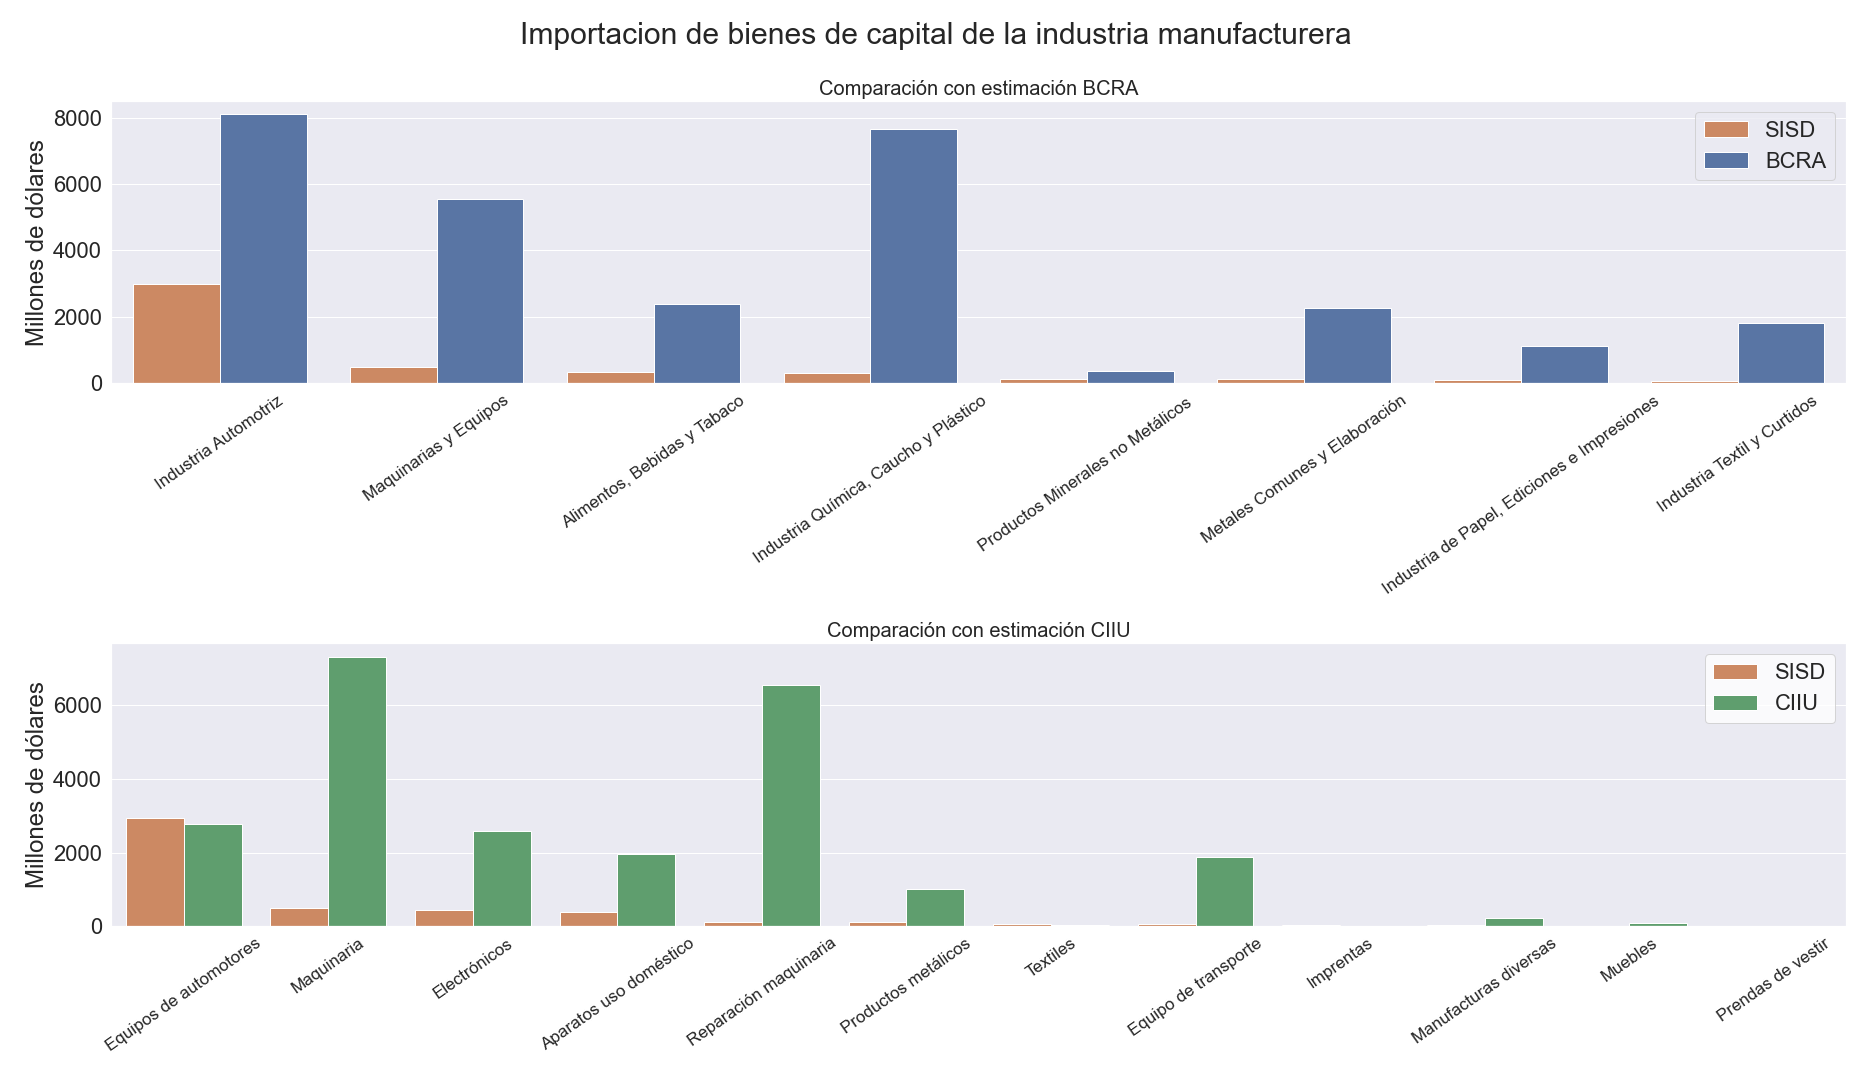
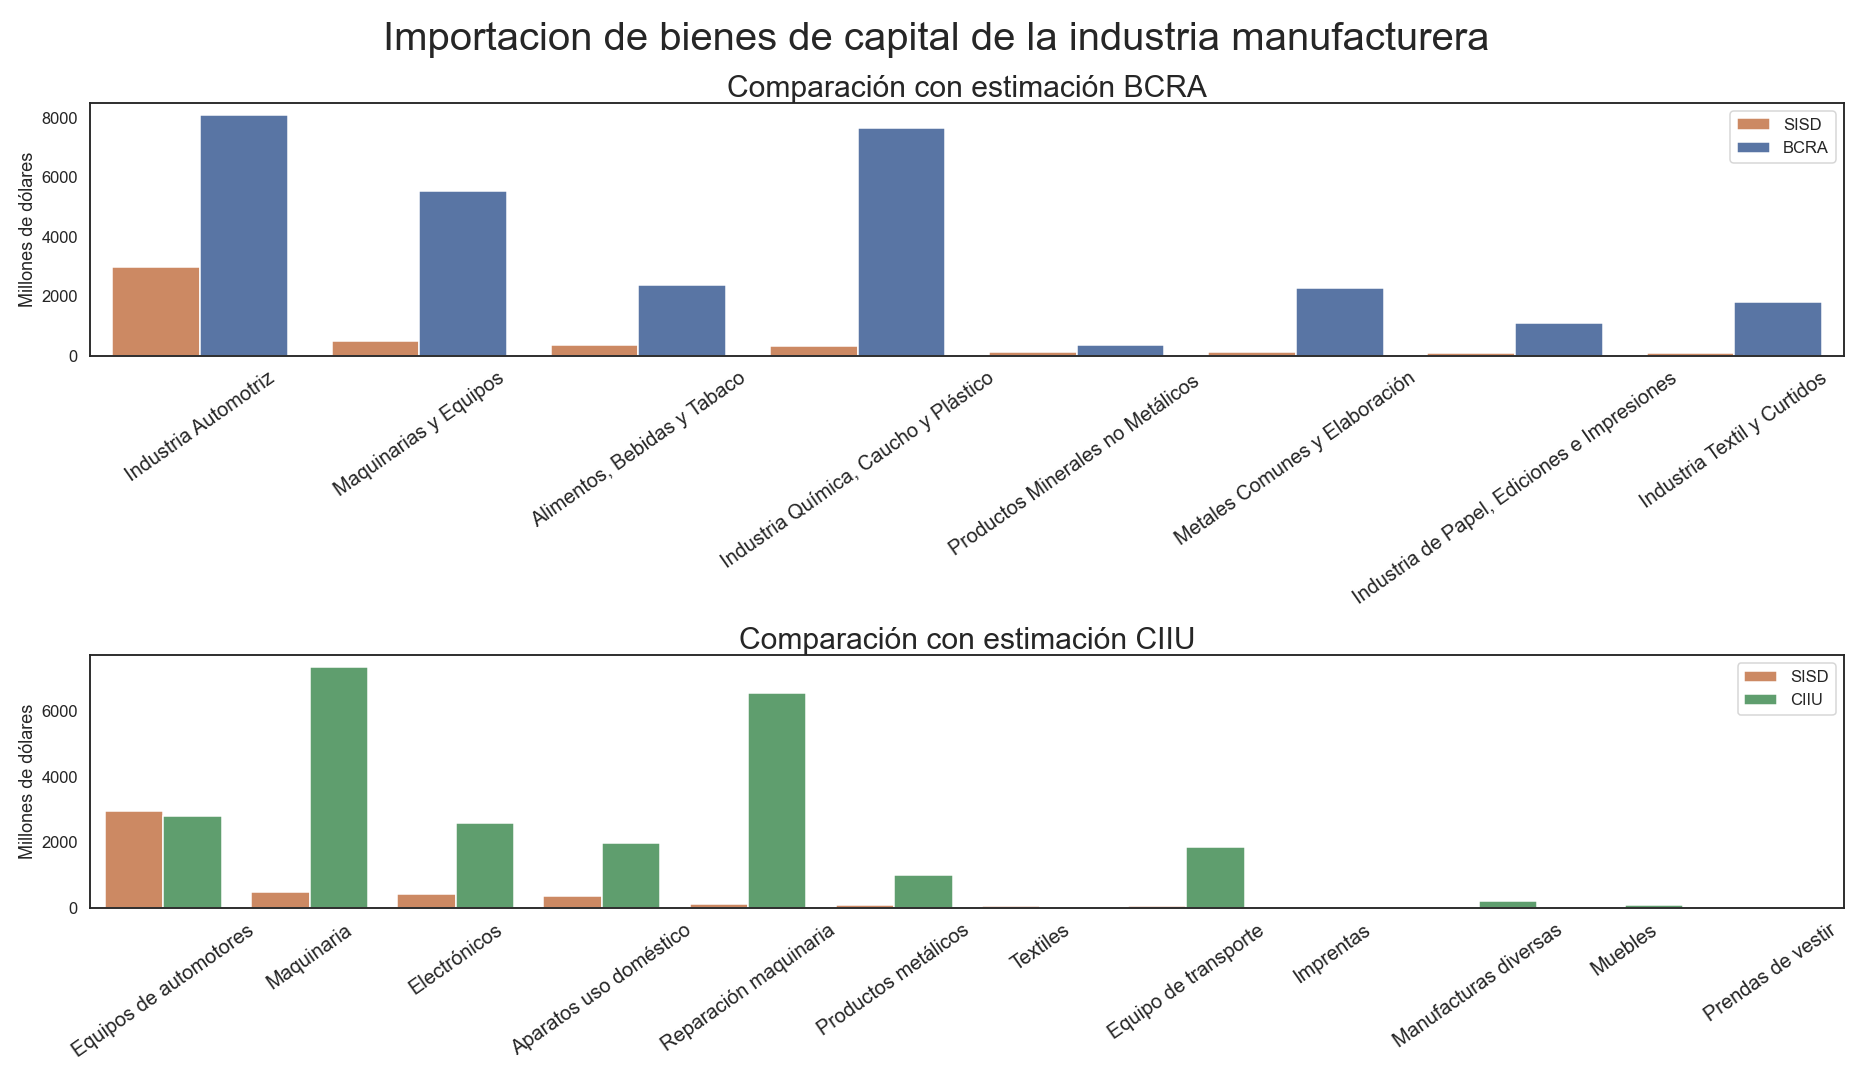
emprolijo graficos

diff --git a/scripts/letra/clasificador_SISD_letra.py b/scripts/letra/clasificador_SISD_letra.py
@@ -19,6 +19,7 @@ import pandas as pd
 import numpy as np
 import matplotlib.pyplot as plt
 import matplotlib.ticker as mtick
+import seaborn as sns
 
 import prince
 from prince import ca
@@ -58,8 +59,6 @@ cuit_personas = predo_cuit_clae(cuit_clae, "personas")
 cuit_empresas = predo_cuit_clae(cuit_clae, "empresas")
 bec_bk = predo_bec_bk(bec, bec_to_clae)
 
-impo_bcra_letra=predo_bce_cambiario(bce_cambiario)
-impo_ciiu_letra = impo_ciiu_letra(isic, dic_ciiu,join_impo_clae_bec_bk )
 
 #############################################
 #                joins                      #
@@ -86,6 +85,12 @@ join_impo_clae_bec_bk_comercio_pond = def_join_impo_clae_bec_bk_comercio_pond(jo
 
 # join_final = def_calc_pond(join_impo_clae_bec_bk_comercio_pond,tabla_contingencia)
 join_final = pd.read_csv("../data/resultados/impo_con_ponderaciones.csv")
+
+
+filtro = ["HS6", "CUIT_IMPOR", "valor", "letra1", "letra2", "letra3", 
+"vta_bk", "vta_sec", "vta_bk2", "vta_sec2", "vta_bk3", "vta_sec3", 
+"letra1_pond", "letra2_pond", "letra3_pond"]
+join_final = join_final.sort_values("HS6")[filtro]
 
 
 #############################################
@@ -115,12 +120,13 @@ comercio_y_propio = impo_comercio_y_propio(z, sectores_desc)
 #                       Visualizacion
 # =============================================================================
 #parametro para graficos
-params = {'legend.fontsize': 'x-large',
+params = {'legend.fontsize': 20,
           'figure.figsize': (20, 10),
-         'axes.labelsize': 'x-large',
+         'axes.labelsize': 15,
          'axes.titlesize': 30,
-         'xtick.labelsize':'x-large',
-         'ytick.labelsize':'x-large'}
+          'xtick.labelsize':20,
+          'ytick.labelsize':20
+         }
 plt.rcParams.update(params)
  
 
@@ -130,7 +136,7 @@ y_pos = np.arange(len(sectores_desc.values()))
 
 plt.bar(y_pos , impo_tot_sec.iloc[:,0]/(10**6) )
 plt.xticks(y_pos , impo_tot_sec.index, rotation = 75)
-plt.title("Importaciones de bienes de capital destinadas a cada sector", fontsize = 30)
+plt.title("Importaciones de bienes de capital destinadas a cada sector")#, fontsize = 30)
 plt.ylabel("Millones de USD")
 plt.xlabel("Sector \n \n Fuente: CEPXXI en base a Aduana, AFIP y UN Comtrade")
 # plt.subplots_adjust(bottom=0.7,top=0.83)
@@ -146,13 +152,19 @@ ax = comercio_y_propio.plot(kind = "bar", rot = 75,
 ax.yaxis.set_major_formatter(mtick.PercentFormatter())
 ax.legend(loc='best', bbox_to_anchor=(1.0, 0.5))
 plt.tight_layout(pad=3)
-plt.title( "Sector abastecedor de importaciones de bienes de capital (en porcentaje)",  fontsize = 30)
+plt.title( "Sector abastecedor de importaciones de bienes de capital (en porcentaje)")#,  fontsize = 30)
+
 plt.savefig('data/resultados/comercio_y_propio_letra.png')
 
 
 ##### insumos tabla 1
 # Top 5 de importaciones de cada sector
 top_5_impo = top_5(matriz_sisd_final, letras, bec, impo_tot_sec)
+
+#CUITS QUE IMPORTAN TOP HS6 Industria
+# top_industria = top_5_impo[top_5_impo["letra"]=="C"]["hs6"].iloc[[0,3]]
+# cuit_top_c = join_impo_clae[join_impo_clae["HS6"].isin(top_industria )].sort_values("valor",ascending=False)#["CUIT_IMPOR"].unique()
+# cuit_empresas[cuit_empresas["cuit"].isin(cuit_top_c)]
 
 # top_5_impo.to_csv("../data/resultados/top5_impo.csv")
 top_5_impo.to_excel("../data/resultados/top5_impo.xlsx")
@@ -169,21 +181,38 @@ transporte_stp = stp_anual.loc["2017"]
 
     
 ######### COMPARACION CON BCRA Y CIIU
+impo_bcra_letra=predo_bce_cambiario(bce_cambiario)
+impo_ciiu_letra = impo_ciiu_letra(isic, dic_ciiu,join_impo_clae_bec_bk )
+
 comparacion = pd.merge(impo_tot_sec, impo_bcra_letra, left_on= "letra", right_on= "letra", how="right" )
 comparacion = pd.merge(comparacion, impo_ciiu_letra, left_on= "letra", right_on= "letra", how="left" )
 
-comparacion = pd.merge(comparacion, sectores , left_on= "letra", right_on= "letra", how="left" )
-comparacion["impo_tot"] = np.log(comparacion["impo_tot"]/10**6) 
-comparacion["impo_bcra"] = np.log(comparacion["impo_bcra"]) 
-comparacion["impo_ciiu"] = np.log(comparacion["impo_ciiu"]) 
+comparacion = pd.merge(comparacion, pd.DataFrame( {"letra": sectores_desc.keys(), "desc":sectores_desc.values() }), left_on= "letra", right_on= "letra", how="left" )
+comparacion["impo_tot"] = comparacion["impo_tot"] /(10**6)
+comparacion["impo_bcra"] = comparacion["impo_bcra"]
+comparacion["impo_ciiu"] = comparacion["impo_ciiu"] 
 
-comparacion.sort_values(by = 'impo_tot', ascending = False).plot(x="desc", y = ["impo_tot", "impo_bcra", "impo_ciiu"], kind="bar", rot=75,
-                 ylabel = "Millones de dólares, escala logarítmica", xlabel = "Sector \n \n Fuente: CEPXXI en base a BCRA, Aduana, AFIP y UN Comtrade. La estimación del BCRA no es exclusiva de Bienes de Capital")#,)
+
+import plotinpy as pnp
+
+comparacion.sort_values(by = 'impo_tot', ascending = False).plot(x="desc", y = ["impo_tot", "impo_bcra"
+                                                                                # ,"impo_ciiu"
+                                                                                ], kind="bar", rot=75,
+                 ylabel = "Millones de dólares", xlabel = "Sector \n \n Fuente: CEPXXI en base a BCRA, Aduana, AFIP y UN Comtrade. La estimación del BCRA no es exclusiva de Bienes de Capital")#,)
 plt.legend(loc='best', bbox_to_anchor=(1.0, 0.5))
 plt.tight_layout(pad=3)
-plt.title( "Importacion sectorial. Comparación de estimaciones en escala logarítmica",  fontsize = 30)
+plt.title( "Importacion sectorial. Comparación de estimaciones")
 plt.legend(["SI-SD (BK)", "BCRA (BK+CI+CONS)", "CIIU (BK)"])
-plt.savefig('data/resultados/comparacion_estimaciones.png')
+# pnp.plot_bars_with_breaks(
+#      [1, 20, 30],
+#     [(15, 25)]
+#     )
+
+plt.savefig('../data/resultados/comparacion_estimaciones.png')
+
+comparacion_tidy = comparacion.melt(id_vars= "desc", value_vars=["impo_tot", "impo_bcra", "impo_ciiu"])#,var_name ="value" )
+sns.barplot(data=comparacion_tidy , x="desc", y ="value", hue="variable")
+
 
 
 # =============================================================================

diff --git a/scripts/clasificador_SISD.py b/scripts/clasificador_SISD.py
@@ -44,7 +44,11 @@ bce_cambiario = pd.read_csv("data/balance_cambiario.csv", skiprows = 3, error_ba
 # carga CIIU
 isic = pd.read_csv("data/JobID-64_Concordance_HS_to_I3.csv", encoding = "latin" )
 dic_ciiu = pd.read_excel("data/Pasar de CLAE6 a CIIU3.xlsx")
-        
+
+# bases preprocesadas
+matriz_sisd = pd.read_csv("data/resultados/matriz_pesada_2d.csv").drop("Unnamed: 0", axis = 1)
+join_final = pd.read_csv("data/resultados/impo_con_ponderaciones_2d.csv",  encoding= 'unicode_escape')
+
 
 #############################################
 #           preparación bases               #
@@ -91,7 +95,6 @@ tabla_contingencia = def_contingencia(join_impo_clae_bec_bk_comercio)
 join_impo_clae_bec_bk_comercio_pond = def_join_impo_clae_bec_bk_comercio_pond(join_impo_clae_bec_bk_comercio)
 
 # join_final = def_calc_pond(join_impo_clae_bec_bk_comercio_pond,tabla_contingencia)
-join_final = pd.read_csv("data/resultados/impo_con_ponderaciones_2d.csv",  encoding= 'unicode_escape')
 
 
 #############################################
@@ -100,7 +103,6 @@ join_final = pd.read_csv("data/resultados/impo_con_ponderaciones_2d.csv",  encod
 
 # matriz_sisd = def_insumo_matriz( join_final)
 # matriz_sisd.to_csv("data/matriz_pesada_2d.csv", index = False) 
-matriz_sisd = pd.read_csv("data/resultados/matriz_pesada_2d.csv").drop("Unnamed: 0", axis = 1)
 
 #asignación por probabilidad de G-bk (insumo para la matriz)
 matriz_sisd_final = def_matriz_c_prob(matriz_sisd)
@@ -127,12 +129,21 @@ params = {'legend.fontsize': 'x-large',
 plt.rcParams.update(params)
  
 
-##### grafico 1
+##### Bases para graficos
 impo_tot_sec = impo_total(z, industria_2d)
+comercio_y_propio  = impo_comercio_y_propio(z, industria_2d , comercio_2d)
+top_5_impo = top_5(matriz_sisd_final, industria_2d, bec, impo_tot_sec)
 
-#posiciones para graf
-y_pos = np.arange(len(industria_2d["desc"]))
+y_pos = np.arange(len(industria_2d["desc"])) #posiciones para graf
 
+#comparacion
+comparacion_bcra = merge_bcra(impo_tot_sec, impo_tot_bcra)
+comparacion_ciiu = join_sisd_ciiu(join_impo_clae_bec_bk, clae_ciiu ,impo_tot_sec,  industria_2d)
+tidy_bcra = pd.melt(comparacion_bcra.rename(columns= {"impo_sisd": "SISD", "impo_bcra":"BCRA"}), id_vars = "sector", value_vars = ["SISD", "BCRA"])
+tidy_ciiu = pd.melt(comparacion_ciiu.rename(columns= {"impo_sisd": "SISD", "impo_ciiu":"CIIU"}), id_vars = "desc", value_vars = ["SISD", "CIIU"])
+
+
+# Grafico 1
 plt.bar(y_pos , impo_tot_sec.iloc[:,0])
 plt.xticks(y_pos , impo_tot_sec.index, rotation = 75)
 plt.title("Importaciones de bienes de capital destinadas a industria manufacturera", fontsize = 30)
@@ -144,7 +155,6 @@ plt.savefig('data/resultados/impo_totales_2d.png')
 
 ##### grafico 2
 #graf division comercio y propio
-comercio_y_propio  = impo_comercio_y_propio(z, industria_2d , comercio_2d)
 ax = comercio_y_propio.plot(kind = "bar",  rot = 75, stacked = True, ylabel = "%", xlabel = "Sector \n \n Fuente: CEPXXI en base a Aduana y AFIP")
 ax.yaxis.set_major_formatter(mtick.PercentFormatter())
 plt.legend(loc='best', bbox_to_anchor=(1.0, 0.5))
@@ -155,12 +165,10 @@ plt.savefig('data/resultados/comercio_y_propio_2d.png')
 
 ##### tabla 1 
 # Top 5 de importaciones de cada sector
-top_5_impo = top_5(matriz_sisd_final, industria_2d, bec, impo_tot_sec)
-top_5_impo.to_excel("data/resultados/top_5_impo_2d.xlsx")
+# top_5_impo.to_excel("data/resultados/top_5_impo_2d.xlsx")
 
 
 #### grafico 3
-comparacion_bcra = merge_bcra(impo_tot_sec, impo_tot_bcra)
 comparacion_bcra.plot(x="sector", y = ["impo_sisd", "impo_bcra"], kind="bar", rot=15,
                  ylabel = "Millones de dólares", xlabel = "Sector \n \n Fuente: CEPXXI en base a BCRA, Aduana, AFIP y UN Comtrade. La estimación del BCRA no es exclusiva de Bienes de Capital")#,)
 plt.legend(loc='best', bbox_to_anchor=(1.0, 0.5))
@@ -172,7 +180,6 @@ plt.savefig("data/resultados/comparacion_bcra_2d.png")
 
 
 #### grafico 4
-comparacion_ciiu = join_sisd_ciiu(join_impo_clae_bec_bk, clae_ciiu ,impo_tot_sec,  industria_2d)
 comparacion_ciiu.plot(x="desc", y = ["impo_sisd", "impo_ciiu"], kind="bar", rot=15, color = ["C1", "g"],
                  ylabel = "Millones de dólares", xlabel = "Sector \n \n Fuente: CEPXXI en base a Aduana, AFIP y UN Comtrade")
 plt.legend(loc='best', bbox_to_anchor=(1.0, 0.5))
@@ -183,9 +190,6 @@ plt.savefig("data/resultados/comparacion_ciiu_2d.png")
 
 
 # Grafico 5
-#data
-tidy_bcra = pd.melt(comparacion_bcra.rename(columns= {"impo_sisd": "SISD", "impo_bcra":"BCRA"}), id_vars = "sector", value_vars = ["SISD", "BCRA"])
-tidy_ciiu = pd.melt(comparacion_ciiu.rename(columns= {"impo_sisd": "SISD", "impo_ciiu":"CIIU"}), id_vars = "desc", value_vars = ["SISD", "CIIU"])
 
 sns.set_context('talk')
 sns.set(font_scale = 2)

diff --git a/scripts/letra/pre_visualizacion_letra.py b/scripts/letra/pre_visualizacion_letra.py
@@ -56,7 +56,7 @@ def top_5(matriz_sisd_final, letras, bec, impo_tot_sec):
 
     x = matriz_sisd_final.groupby(["hs6", "sd"], as_index=False)['valor_pond'].sum("valor_pond")
     top_5_impo = x.reset_index(drop = True).sort_values(by = ["sd", "valor_pond"],ascending = False)
-    top_5_impo  = top_5_impo.groupby(["sd"], as_index = True).head(10)
+    top_5_impo  = top_5_impo.groupby(["sd"], as_index = True).head(5)
     top_5_impo  = pd.merge(left=top_5_impo, right=letras, left_on="sd", right_on="letra", how="left").drop(["sd"], axis=1)
     top_5_impo  = pd.merge(left=top_5_impo, right=bec[["HS6","HS6Desc"]], left_on="hs6", right_on="HS6", how="left").drop("HS6", axis=1)
     top_5_impo  = pd.merge(top_5_impo  , impo_tot_sec, left_on="letra", right_on="letra", how = "left")
